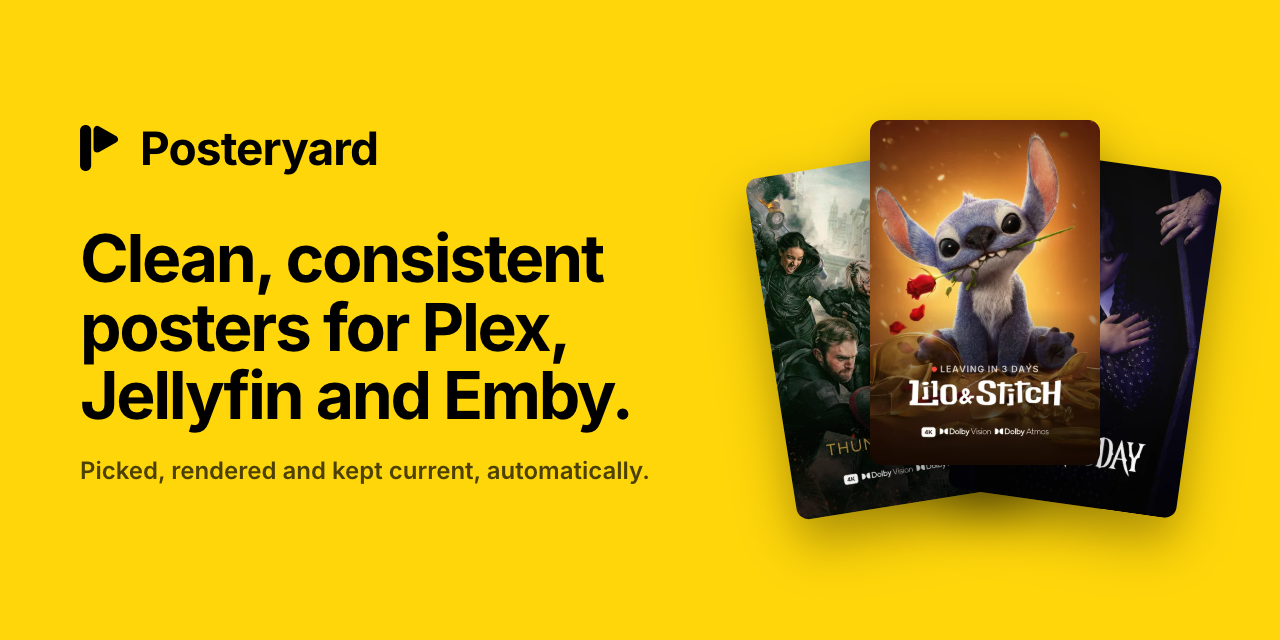
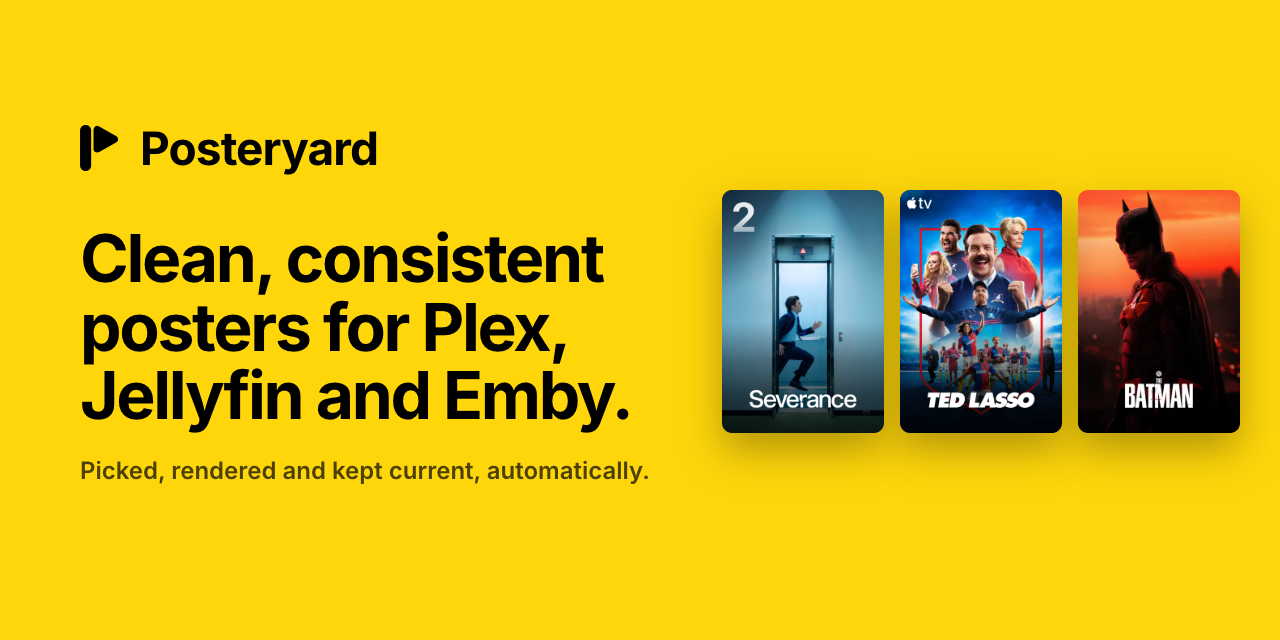
Show Severance, Ted Lasso and The Batman on the social card (#92)
Three upright posters in a row, each fully visible, with image alt text that names them.

Changed region(s): [[0.5312, 0.1875, 1.0, 0.875]]

diff --git a/site/template.html b/site/template.html
@@ -18,12 +18,12 @@
     <meta property="og:image" content="{{site}}/img/social-card.png" />
     <meta property="og:image:width" content="1280" />
     <meta property="og:image:height" content="640" />
-    <meta property="og:image:alt" content="Official movie posters next to the clean Posteryard versions" />
+    <meta property="og:image:alt" content="Posteryard posters for Severance season 2, Ted Lasso and The Batman" />
     <meta name="twitter:card" content="summary_large_image" />
     <meta name="twitter:title" content="Posteryard: clean, consistent posters for Plex, Jellyfin and Emby" />
     <meta name="twitter:description" content="{{description}}" />
     <meta name="twitter:image" content="{{site}}/img/social-card.png" />
-    <meta name="twitter:image:alt" content="Official movie posters next to the clean Posteryard versions" />
+    <meta name="twitter:image:alt" content="Posteryard posters for Severance season 2, Ted Lasso and The Batman" />
     <script type="application/ld+json">{{schema}}</script>
     <style>
       :root {
